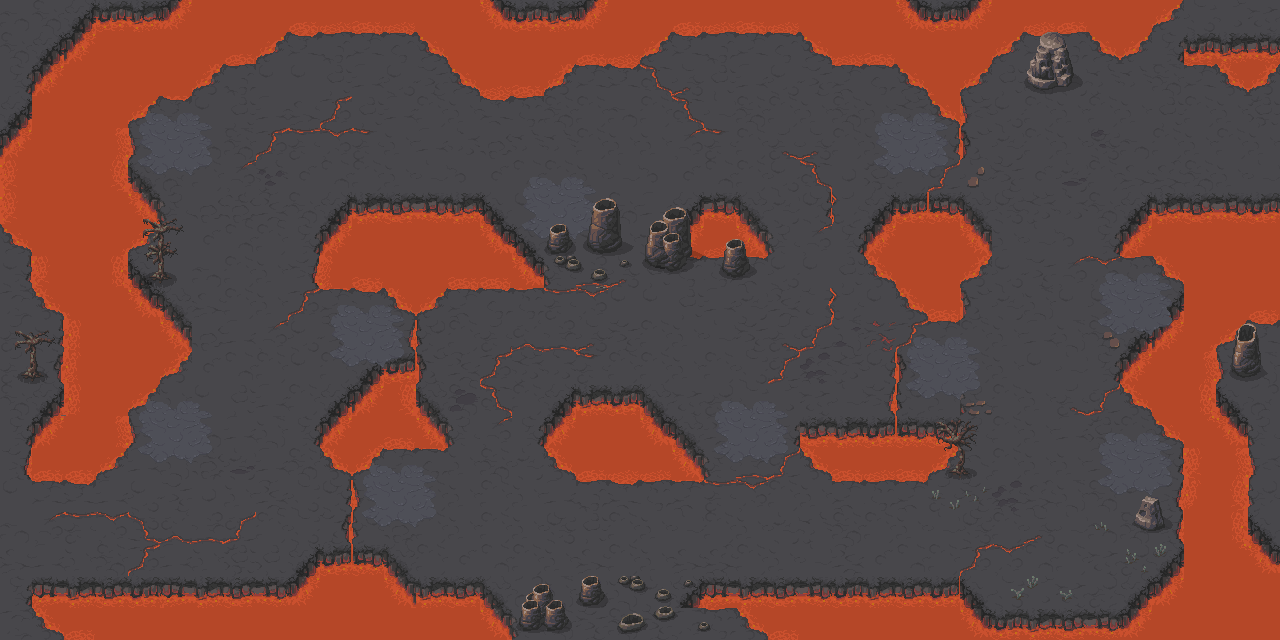
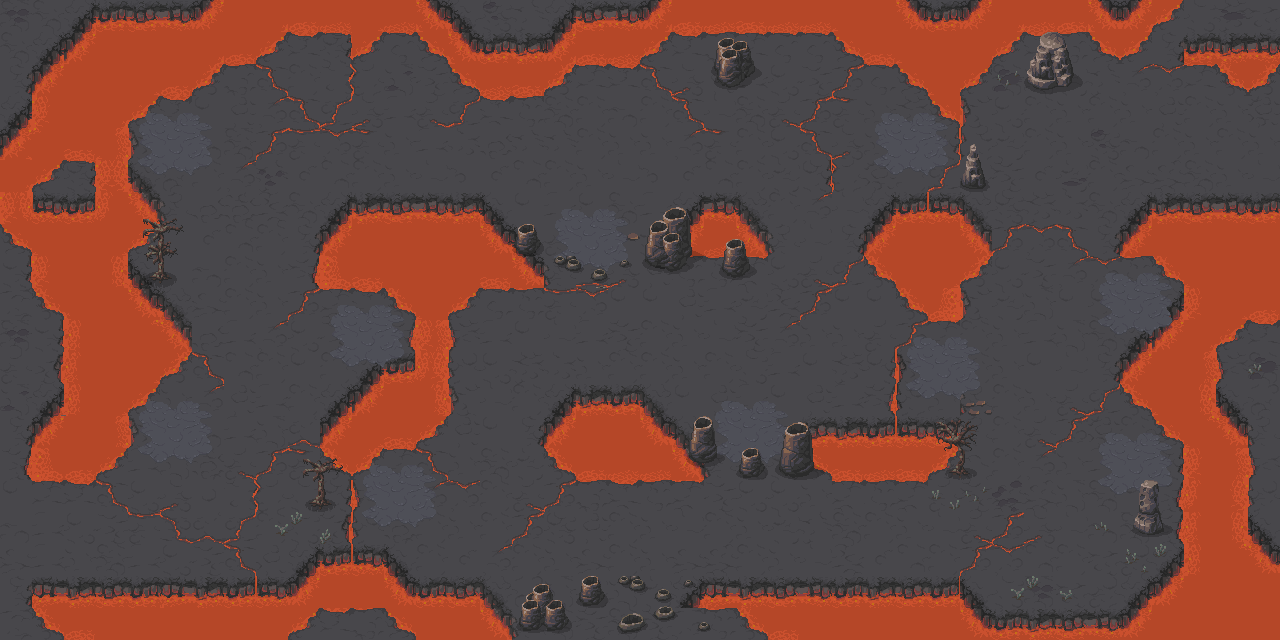
NEW MAP AND HUD UPDATE

diff --git a/src/constants/levels.js b/src/constants/levels.js
@@ -16,71 +16,67 @@ export function generateEnemyWaypoints(waypoints){
 }
 
 export const WASTELANDS_TILEMAP = [
-    36, 36, 36, 36, 36, 36, 36, 36, 36, 36, 36, 36, 36, 36, 36, 36, 36, 36, 36, 36, 36, 36, 36, 36, 36, 36, 36, 36, 36, 36, 36, 36, 36, 36, 36, 36, 36, 36, 36, 36,
-    36, 36, 36, 36, 36, 36, 36, 36, 36, 36, 36, 36, 36, 36, 36, 36, 36, 36, 36, 36, 36, 36, 36, 36, 36, 36, 36, 36, 36, 36, 36, 36, 36, 36, 36, 36, 36, 36, 36, 36,
-    36, 36, 36, 36, 36, 36, 36, 36, 36, 36, 36, 36, 36, 36, 36, 36, 36, 36, 36, 36, 36, 36, 36, 36, 36, 36, 36, 36, 36, 36, 36, 36, 36, 36, 36, 36, 36, 36, 36, 36,
-    11, 11, 11, 11, 1, 2, 2, 2, 2, 17, 2, 2, 2, 17, 2, 2, 2, 2, 2, 2, 2, 2, 17, 2, 2, 2, 2, 3, 11, 11, 11, 11, 11, 1, 2, 2, 17, 17, 2, 2,
-    11, 11, 11, 11, 7, 8, 8, 8, 8, 8, 8, 8, 8, 8, 8, 8, 8, 8, 8, 8, 8, 8, 8, 8, 8, 8, 8, 10, 11, 11, 11, 11, 11, 7, 8, 8, 8, 8, 8, 8,
-    11, 11, 11, 11, 7, 8, 8, 8, 8, 8, 8, 8, 8, 8, 8, 8, 8, 8, 8, 8, 8, 8, 8, 8, 8, 8, 8, 10, 11, 11, 11, 11, 11, 7, 8, 8, 8, 8, 8, 8,
-    11, 11, 11, 11, 7, 8, 8, 8, 8, 8, 8, 8, 8, 8, 8, 8, 8, 8, 8, 8, 8, 8, 8, 8, 8, 8, 8, 10, 11, 11, 11, 11, 11, 7, 8, 8, 8, 8, 8, 8,
-    11, 11, 11, 11, 7, 8, 8, 8, 4, 14, 5, 5, 5, 5, 5, 5, 5, 5, 5, 5, 5, 5, 5, 6, 8, 8, 8, 10, 11, 11, 11, 11, 11, 7, 8, 8, 8, 4, 5, 5,
-    11, 11, 11, 11, 12, 8, 8, 8, 9, 19, 11, 11, 11, 11, 11, 11, 11, 11, 11, 11, 11, 11, 19, 12, 8, 8, 8, 9, 11, 11, 11, 11, 11, 7, 8, 8, 8, 10, 19, 11,
-    11, 11, 11, 11, 7, 8, 8, 8, 9, 11, 11, 11, 11, 11, 11, 11, 11, 11, 11, 11, 11, 11, 11, 12, 8, 8, 8, 10, 11, 11, 11, 11, 11, 7, 8, 8, 8, 10, 11, 11,
-    11, 11, 11, 11, 7, 8, 8, 8, 9, 11, 11, 11, 11, 11, 11, 11, 11, 19, 11, 11, 11, 11, 11, 12, 8, 8, 8, 10, 11, 11, 11, 11, 11, 7, 8, 8, 8, 10, 11, 11,
-    11, 11, 11, 11, 7, 8, 8, 8, 9, 11, 11, 11, 11, 11, 11, 1, 2, 2, 2, 2, 2, 2, 2, 18, 8, 8, 8, 9, 11, 11, 11, 11, 11, 7, 8, 8, 8, 9, 11, 11,
-    11, 11, 11, 11, 7, 8, 8, 8, 10, 11, 11, 11, 11, 11, 11, 7, 8, 8, 8, 8, 8, 8, 8, 8, 8, 8, 8, 10, 11, 11, 11, 11, 11, 12, 8, 8, 8, 10, 11, 11,
-    11, 11, 11, 11, 7, 8, 8, 8, 9, 11, 11, 11, 11, 11, 11, 7, 8, 8, 8, 8, 8, 8, 8, 8, 8, 8, 8, 10, 19, 11, 11, 11, 11, 7, 8, 8, 8, 10, 11, 11,
-    11, 11, 11, 11, 12, 8, 8, 8, 9, 11, 11, 11, 11, 11, 11, 7, 8, 8, 8, 8, 8, 8, 8, 8, 8, 8, 8, 10, 11, 11, 11, 11, 11, 7, 8, 8, 8, 10, 11, 11,
-    11, 11, 11, 11, 7, 8, 8, 8, 9, 11, 11, 11, 11, 11, 11, 12, 8, 8, 8, 4, 14, 14, 14, 14, 14, 14, 14, 15, 11, 11, 11, 11, 11, 7, 8, 8, 8, 10, 11, 11,
-    11, 11, 11, 11, 7, 8, 8, 8, 9, 11, 11, 11, 11, 11, 19, 7, 8, 8, 8, 9, 19, 11, 11, 11, 11, 11, 11, 11, 11, 11, 11, 11, 11, 7, 8, 8, 8, 10, 11, 11,
-    11, 11, 11, 11, 7, 8, 8, 8, 9, 11, 11, 11, 11, 11, 11, 7, 8, 8, 8, 9, 11, 11, 11, 11, 11, 11, 11, 11, 11, 11, 11, 11, 11, 7, 8, 8, 8, 10, 11, 11,
-    11, 11, 11, 19, 7, 8, 8, 8, 9, 19, 11, 11, 11, 11, 11, 7, 8, 8, 8, 9, 11, 11, 11, 11, 11, 11, 11, 11, 11, 11, 11, 11, 19, 7, 8, 8, 8, 9, 11, 11,
-    17, 17, 17, 17, 18, 8, 8, 8, 9, 11, 11, 11, 11, 11, 11, 12, 8, 8, 8, 16, 2, 2, 2, 2, 17, 2, 2, 2, 17, 2, 2, 2, 2, 18, 8, 8, 8, 10, 11, 11,
-    8, 8, 8, 8, 8, 8, 8, 8, 10, 11, 11, 11, 11, 11, 11, 7, 8, 8, 8, 8, 8, 8, 8, 8, 8, 8, 8, 8, 8, 8, 8, 8, 8, 8, 8, 8, 8, 10, 11, 11,
-    8, 8, 8, 8, 8, 8, 8, 8, 9, 11, 11, 11, 11, 11, 11, 7, 8, 8, 8, 8, 8, 8, 8, 8, 8, 8, 8, 8, 8, 8, 8, 8, 8, 8, 8, 8, 8, 10, 11, 11,
-    8, 8, 8, 8, 8, 8, 8, 8, 9, 11, 11, 11, 11, 11, 11, 7, 8, 8, 8, 8, 8, 8, 8, 8, 8, 8, 8, 8, 8, 8, 8, 8, 8, 8, 8, 8, 8, 10, 11, 11,
-    5, 5, 5, 5, 14, 5, 5, 5, 15, 11, 11, 11, 11, 11, 11, 13, 5, 5, 5, 5, 14, 5, 5, 5, 5, 5, 5, 14, 14, 5, 5, 5, 5, 14, 5, 5, 5, 15, 11, 11
+    0, 0, 0, 0, 0, 0, 0, 0, 0, 0, 0, 0, 0, 0, 0, 0, 0, 0, 0, 0, 0, 0, 0, 0, 0, 0, 0, 0, 0, 0, 0, 0, 0, 0, 0, 0, 0, 0, 0, 0,
+    0, 0, 0, 0, 0, 0, 0, 0, 0, 0, 0, 0, 0, 0, 0, 0, 0, 0, 0, 0, 0, 0, 0, 0, 0, 0, 0, 0, 0, 0, 0, 0, 0, 0, 0, 0, 0, 0, 0, 0,
+    0, 0, 0, 0, 0, 0, 0, 0, 0, 0, 0, 0, 0, 0, 0, 0, 0, 0, 0, 0, 0, 0, 0, 0, 0, 0, 0, 0, 0, 0, 0, 0, 0, 0, 0, 0, 0, 0, 0, 0,
+    0, 0, 0, 0, 0, 0, 0, 0, 0, 0, 0, 0, 0, 0, 0, 0, 0, 0, 0, 0, 0, 0, 0, 0, 0, 0, 0, 0, 0, 0, 0, 0, 0, 0, 0, 0, 0, 0, 0, 0,
+    0, 0, 0, 0, 0, 1, 0, 0, 0, 0, 0, 0, 0, 0, 0, 0, 0, 0, 0, 0, 0, 0, 0, 0, 0, 0, 0, 0, 1, 0, 0, 0, 0, 0, 0, 0, 0, 0, 0, 0,
+    0, 0, 0, 0, 0, 0, 0, 0, 0, 0, 0, 0, 0, 0, 0, 0, 0, 0, 0, 0, 0, 0, 0, 0, 0, 0, 0, 0, 0, 0, 0, 0, 0, 0, 0, 0, 0, 0, 0, 0,
+    0, 0, 0, 0, 0, 0, 0, 0, 0, 0, 0, 0, 0, 0, 0, 0, 0, 0, 0, 0, 0, 0, 0, 0, 0, 0, 0, 0, 0, 0, 0, 0, 0, 0, 0, 0, 0, 0, 0, 0,
+    0, 0, 0, 0, 0, 0, 0, 0, 0, 0, 0, 0, 0, 0, 0, 0, 0, 0, 1, 0, 0, 0, 0, 0, 0, 0, 0, 0, 0, 0, 0, 0, 0, 0, 0, 0, 0, 0, 0, 0,
+    0, 0, 0, 0, 0, 0, 0, 0, 0, 0, 0, 0, 0, 0, 0, 0, 0, 0, 0, 0, 0, 0, 0, 0, 0, 0, 0, 0, 0, 0, 0, 0, 0, 0, 0, 0, 0, 0, 0, 0,
+    0, 0, 0, 0, 0, 0, 0, 0, 0, 0, 0, 0, 0, 0, 0, 0, 0, 0, 0, 0, 0, 0, 0, 0, 0, 0, 0, 0, 0, 0, 0, 0, 0, 0, 0, 1, 0, 0, 0, 0,
+    0, 0, 0, 0, 0, 0, 0, 0, 0, 0, 0, 1, 0, 0, 0, 0, 0, 0, 0, 0, 0, 0, 0, 0, 0, 0, 0, 0, 0, 0, 0, 0, 0, 0, 0, 0, 0, 0, 0, 0,
+    0, 0, 0, 0, 0, 0, 0, 0, 0, 0, 0, 0, 0, 0, 0, 0, 0, 0, 0, 0, 0, 0, 0, 0, 0, 0, 0, 0, 0, 1, 0, 0, 0, 0, 0, 0, 0, 0, 0, 0,
+    0, 0, 0, 0, 0, 0, 0, 0, 0, 0, 0, 0, 0, 0, 0, 0, 0, 0, 0, 0, 0, 0, 0, 0, 0, 0, 0, 0, 0, 0, 0, 0, 0, 0, 0, 0, 0, 0, 0, 0,
+    0, 0, 0, 0, 0, 1, 0, 0, 0, 0, 0, 0, 0, 0, 0, 0, 0, 0, 0, 0, 0, 0, 0, 1, 0, 0, 0, 0, 0, 0, 0, 0, 0, 0, 0, 0, 0, 0, 0, 0,
+    0, 0, 0, 0, 0, 0, 0, 0, 0, 0, 0, 0, 0, 0, 0, 0, 0, 0, 0, 0, 0, 0, 0, 0, 0, 0, 0, 0, 0, 0, 0, 0, 0, 0, 0, 1, 0, 0, 0, 0,
+    0, 0, 0, 0, 0, 0, 0, 0, 0, 0, 0, 0, 1, 0, 0, 0, 0, 0, 0, 0, 0, 0, 0, 0, 0, 0, 0, 0, 0, 0, 0, 0, 0, 0, 0, 0, 0, 0, 0, 0,
+    0, 0, 0, 0, 0, 0, 0, 0, 0, 0, 0, 0, 0, 0, 0, 0, 0, 0, 0, 0, 0, 0, 0, 0, 0, 0, 0, 0, 0, 0, 0, 0, 0, 0, 0, 0, 0, 0, 0, 0,
+    0, 0, 0, 0, 0, 0, 0, 0, 0, 0, 0, 0, 0, 0, 0, 0, 0, 0, 0, 0, 0, 0, 0, 0, 0, 0, 0, 0, 0, 0, 0, 0, 0, 0, 0, 0, 0, 0, 0, 0,
+    0, 0, 0, 0, 0, 0, 0, 0, 0, 0, 0, 0, 0, 0, 0, 0, 0, 0, 0, 0, 0, 0, 0, 0, 0, 0, 0, 0, 0, 0, 0, 0, 0, 0, 0, 0, 0, 0, 0, 0,
+    0, 0, 0, 0, 0, 0, 0, 0, 0, 0, 0, 0, 0, 0, 0, 0, 0, 0, 0, 0, 0, 0, 0, 0, 0, 0, 0, 0, 0, 0, 0, 0, 0, 0, 0, 0, 0, 0, 0, 0
 ];
 
 export const WASTELANDS_WAYPOINTS = [
     {
-        "x":100,//-100
-        "y":685
+        "x":-52,
+        "y":532
     }, 
     {
-        "x":205,
-        "y":685
+        "x":276,
+        "y":527
     }, 
     {
-        "x":205,
-        "y":175
+        "x":274,
+        "y":144
     }, 
     {
-        "x":815,
-        "y":175
+        "x":816,
+        "y":144
     }, 
     {
-        "x":815,
-        "y":435
+        "x":816,
+        "y":334
     }, 
     {
-        "x":555,
-        "y":435
+        "x":498,
+        "y":335
     }, 
     {
-        "x":555,
-        "y":685
+        "x":498,
+        "y":529
     }, 
     {
-        "x":1135,
-        "y":685
+        "x":1043,
+        "y":527
     }, 
     {
-        "x":1135,
-        "y":175
+        "x":1045,
+        "y":146
     }, 
     {
-        "x":1200,//1300
-        "y":175
+        "x":1334,
+        "y":147
     }
 ]

diff --git a/src/handlers/Levels.js b/src/handlers/Levels.js
@@ -24,7 +24,7 @@ export class Levels {
         const emptyTowerSpots = [];   
         this.tileMap2D.forEach((row, y) => {
             row.forEach((symbol, x) => {
-                if (symbol === 19)
+                if (symbol !== 0)
                     emptyTowerSpots.push(new EmptyTowerSpot({
                         position: { 
                             x: x * GAME.SIZES.TILE + GAME.SIZES.TILE_HALF, 
